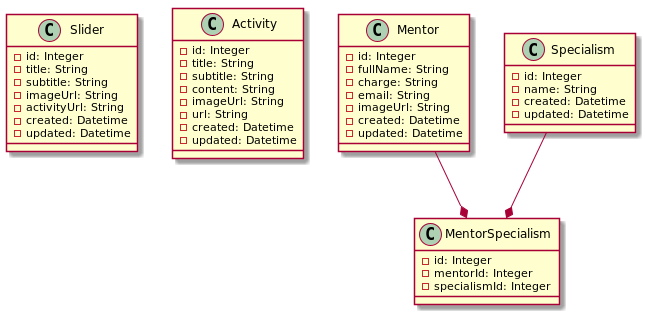
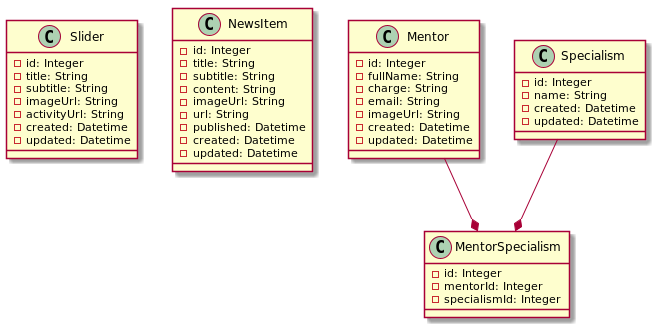
mostrar noticias por url

diff --git a/src/stylesheets/styles.css b/src/stylesheets/styles.css
@@ -133,3 +133,13 @@ a[href].btn-primary {
 .btn i{
     margin-right: 8px;
 }
+
+
+.btn-secondary{
+  background: var(--bs-gray-dark);
+  color: #FFF !important;
+}
+
+.btn-secondary:hover{
+  color: #FDFDFD !important;
+}

diff --git a/app/controllers/site_controller.rb b/app/controllers/site_controller.rb
@@ -12,7 +12,6 @@ class SiteController < ApplicationController
       @sliders = Slider.all
       @new_items = NewsItem.order(published: :desc).limit(4)
       @mentors = MentorsHelper.get_mentors_with_specialisms
-      puts @mentors
       render :home
     end
   end
@@ -27,6 +26,21 @@ class SiteController < ApplicationController
   end
 
   def about
+  end
+
+  def news
+    begin
+      @new = NewsItem.find_by(url: params[:url])
+      render :news
+    rescue ActiveRecord::RecordNotFound
+      # Si no se encuentra el registro, redirige a una página 404
+      redirect_to not_found_path
+    rescue => e
+      # Captura cualquier error general
+      Rails.logger.error "Error al eleminar slider: #{e.message}"
+      flash.now[:alert] = "Ocurrió un error inesperado: #{e.message}"
+      render :index
+    end
   end
 
   def determine_layout

diff --git a/app/helpers/application_helper.rb b/app/helpers/application_helper.rb
@@ -1,3 +1,31 @@
 module ApplicationHelper
-  
+  require 'redcarpet'
+
+  class HTMLRenderer < Redcarpet::Render::HTML
+    def initialize(extensions = {})
+      super({
+        filter_html: true,
+        hard_wrap: true,
+        link_attributes: { target: '_blank', rel: 'noopener' }
+      }.merge(extensions))
+    end
+  end
+
+  def markdown_to_html(markdown_content)
+    return '' if markdown_content.blank?
+
+    renderer = HTMLRenderer.new
+    markdown = Redcarpet::Markdown.new(
+      renderer,
+      autolink: true,
+      fenced_code_blocks: true,
+      no_intra_emphasis: true,
+      tables: true,
+      strikethrough: true,
+      space_after_headers: true
+    )
+
+    # Sanitizar y marcar como seguro
+    raw markdown.render(markdown_content).html_safe
+  end
 end

diff --git a/config/routes.rb b/config/routes.rb
@@ -15,6 +15,7 @@ Rails.application.routes.draw do
   get "/privacy", to: "site#privacy", as: 'privacy'
   get "/terms-and-conditions", to: "site#terms", as: 'terms'
   get "/about", to: "site#about", as: 'about'
+  get "/news/:url", to: "site#news"
   # admin
   resources :specialisms
   get "/specialisms", to: "specialisms#index", as: 'specialisms_index'
